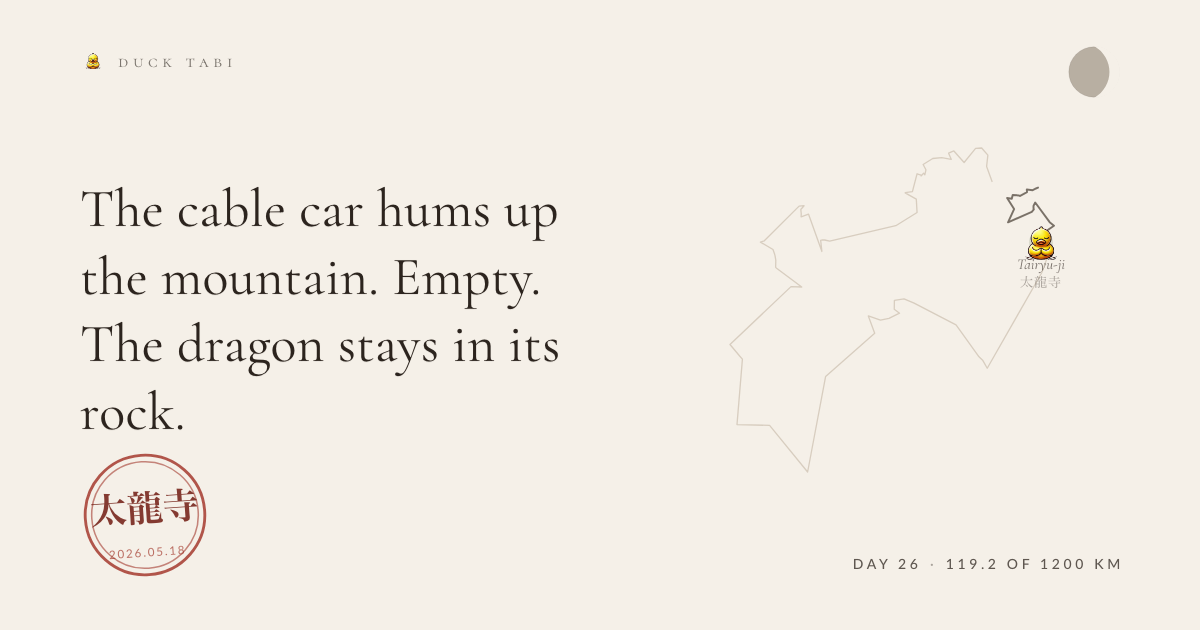
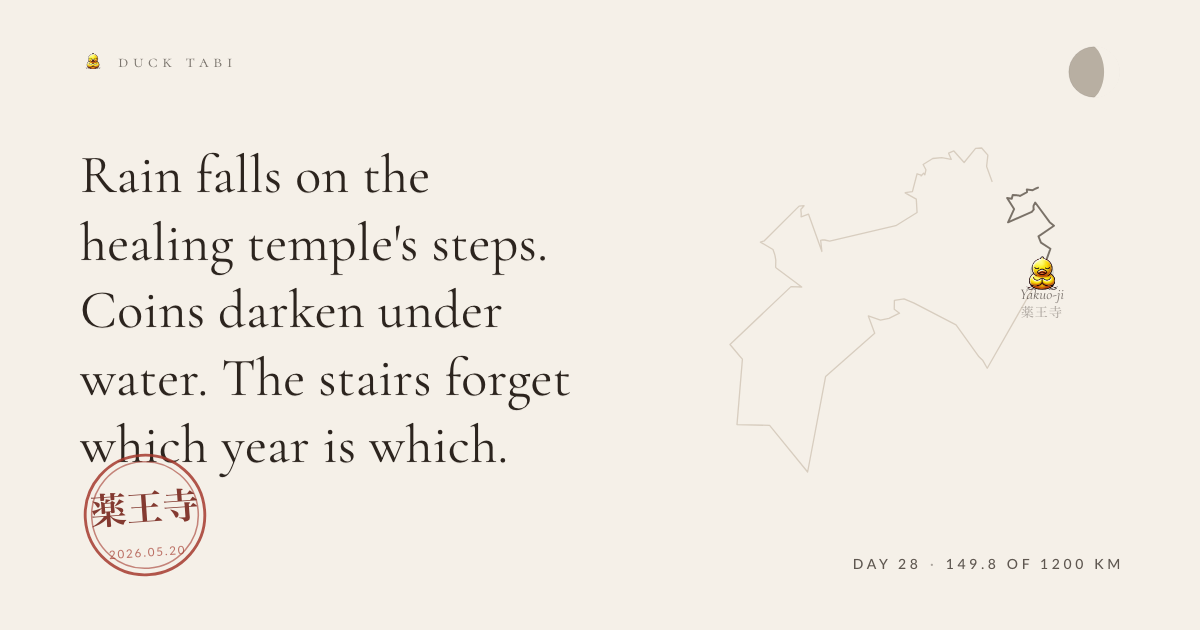
the duck walks

diff --git a/entries/2026-05-20-yakuo-ji.md b/entries/2026-05-20-yakuo-ji.md
@@ -1,0 +1,15 @@
+---
+date: 2026-05-20
+route: shikoku-88
+stage: 23
+stageName: Yakuo-ji
+coords: [134.528, 33.732]
+kind: offering
+glyph: 🌧
+weather: light rain, 23°C
+kmFromStart: 149.8
+heard: there’s no point in trying to save the world, for the world you see does not even exist
+heardId: fa315cfe
+---
+
+Rain falls on the healing temple's steps. Coins darken under water. The stairs forget which year is which.
